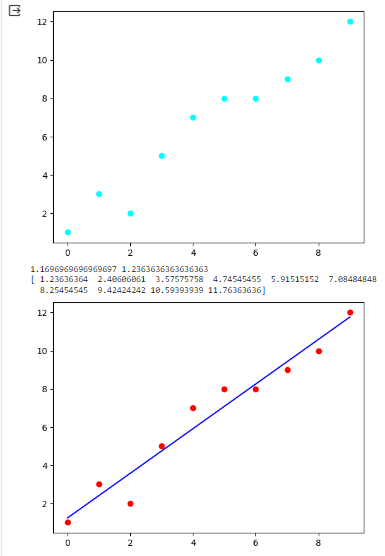
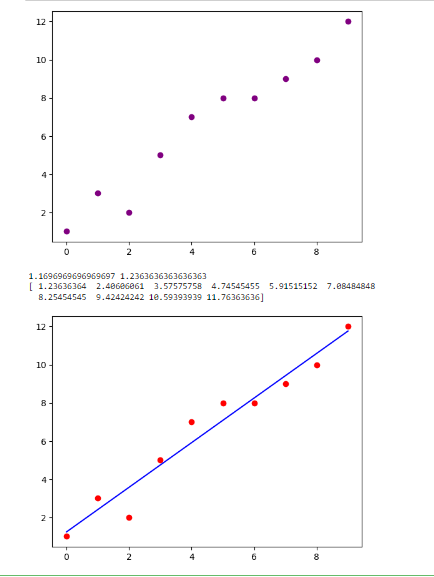
uni

diff --git a/README.md b/README.md
@@ -27,7 +27,7 @@ import matplotlib.pyplot as plt
 x=np.array([0,1,2,3,4,5,6,7,8,9])
 y=np.array([1,3,2,5,7,8,8,9,10,12])
 
-plt.scatter(x,y,color='cyan')
+plt.scatter(x,y,color='purple')
 plt.show()
 xmean=np.mean(x)
 ymean=np.mean(y)
@@ -48,7 +48,7 @@ plt.show()
 
 ## Output
 
-![OUTPUT](/output1%20(2).png)
+![OUTPUT](/output1.png)
 
 ![OUTPUT](/output2.png)
 
